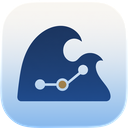
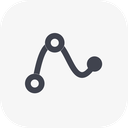
chore: bump version to v0.9.6

diff --git a/site/index.html b/site/index.html
@@ -360,7 +360,7 @@
     <header class="hero">
       <div class="wrap">
         <img class="app-icon" src="/icon.png" alt="GitWave app icon" width="104" height="104" />
-        <div class="badge">v0.9.5 · 2026-09-27</div>
+        <div class="badge">v0.9.6 · 2026-09-27</div>
         <h1>GitWave</h1>
         <p class="tagline">A local-first Git client with AI collaboration.</p>
         <p class="sub">
@@ -517,7 +517,7 @@
               side-by-side image diffs (old vs new, common image formats — for unstaged changes the
               new side reflects the live worktree), and file-level context. Selected-file / side
               previews with explicit truncation, virtualised text rows, paired split replacements
-              and syntax highlighting keep large diffs fast.
+              and syntax highlighting with on-demand language resources keep large diffs fast.
             </p>
           </div>
           <div class="card">
@@ -631,7 +631,7 @@
           </div>
         </div>
         <p class="dl-note">
-          Latest release: v0.9.5 ·
+          Latest release: v0.9.6 ·
           <a
             href="https://github.com/Yangshifu1024/GitWave/releases/latest"
             target="_blank"

diff --git a/index.html b/index.html
@@ -2,7 +2,7 @@
 <html lang="en">
   <head>
     <meta charset="UTF-8" />
-    <link rel="icon" type="image/svg+xml" href="/vite.svg" />
+    <link rel="icon" type="image/png" href="/app-icon.png" />
     <meta name="viewport" content="width=device-width, initial-scale=1.0" />
     <title>GitWave</title>
   </head>

diff --git a/docs/pm/core/03-roadmap.md b/docs/pm/core/03-roadmap.md
@@ -1,7 +1,7 @@
 # GitWave · 版本路线
 
 > 本文档定义 GitWave 的版本发布计划与迭代节奏。项目采用敏捷快速迭代，无固定阶段。
-> 当前发布版本：**v0.9.5**（三平台）。§2.1–§2.3 是已交付的规划基线，不是待办。
+> 当前发布版本：**v0.9.6**（三平台）。§2.1–§2.3 是已交付的规划基线，不是待办。
 
 ## 1. 版本总览
 
@@ -10,7 +10,7 @@
 | **v0.1** | 14 个核心场景跑通 | macOS 起步 | **已交付** |
 | **v0.2** | v0.1 全量 + Windows + AI 进阶 | macOS + Win | **已交付** |
 | **v0.3** | v0.2 全量 + Linux + remote 协作 + AI 智能 | macOS + Win + Linux | **已交付**（PR/MR / Issue 未做，见 §2.3） |
-| **v0.4–v0.9** | 官网、自动更新、i18n、代理、凭证弹窗、图片 diff 等持续迭代 | 三平台 | **进行中**（当前 v0.9.5） |
+| **v0.4–v0.9** | 官网、自动更新、i18n、代理、凭证弹窗、图片 diff 等持续迭代 | 三平台 | **进行中**（当前 v0.9.6） |
 
 工程拆解见 `docs/tech/planning/roadmap-v0.2.md`、`docs/tech/planning/roadmap-v0.3.md`（均为已执行计划，不是开工文档）。
 
@@ -80,7 +80,7 @@ v0.3 之后不再按「大版本一次性范围」排期，按功能提案合入
 | v0.6.x | UI 中英双语 + AI 回复语言 |
 | v0.7.x | macOS 原生菜单、提交/分支右键菜单、远程分支 DWIM 检出、系统代理、应用内 HTTPS 凭证弹窗、外部工具 / 编辑器打开、图片 diff |
 | v0.8.x | 标题栏与操作栏合并、stash 按仓库隔离、未暂存图片 diff 读工作区、macOS dmg 公证票据、检出后侧栏揭示分支、自动刷新全部仓库 |
-| v0.9.x | 一次添加多个本地仓库、仓库标签栏滚轮横滚、stash 面板重做、提交列表滚动性能、时间格式统一、孤立 index 冲突可见与 pull 前置检查 |
+| v0.9.x | 一次添加多个本地仓库、仓库标签栏滚轮横滚、stash 面板重做、提交列表滚动性能、时间格式统一、孤立 index 冲突可见与 pull 前置检查、可靠性优化、新版图标、按需语法资源与更小前端分包 |
 
 **相对规划仍未做、且仍在产品意图里的项**（不是本路线图的承诺日期）：
 
@@ -100,4 +100,4 @@ v0.3 之后不再按「大版本一次性范围」排期，按功能提案合入
 - 重大方向调整时：重新审视平台优先级、新功能纳入/排除
 - 版本整体回看：重设下一版本
 
-（v0.9.5 已发布，本节内容已并入 `02-scope.md` §3.5 版本对照表。）
+各补丁版本的具体交付见 `02-scope.md` §3.5 版本对照表。

diff --git a/README.md b/README.md
@@ -2,13 +2,13 @@
 
 > Local-first Git client with AI collaboration. Website: **[gitwave.work](https://gitwave.work)**
 
-**Status:** v0.9.5 · [Release notes](https://github.com/Yangshifu1024/GitWave/releases) · [Product scope](./docs/pm/core/01-features.md) · [Engineering decisions](./docs/tech/README.md)
+**Status:** v0.9.6 · [Release notes](https://github.com/Yangshifu1024/GitWave/releases) · [Product scope](./docs/pm/core/01-features.md) · [Engineering decisions](./docs/tech/README.md)
 
 ### What's new in v0.9.x
 
+- **v0.9.6** — refreshed application icons across the desktop app and website; smaller frontend bundles with on-demand syntax resources; more reliable dialog resets and repository switching, with warning-free frontend and Rust quality gates
 - **v0.9.5** — offline AI requests now enforce loopback-only connectivity, bypass system proxies, disable redirects, and screen complete blob versions for private-key material before any diff fragment is sent; commit drafts and conflict buffers survive navigation; clean working copies support message-only amend; the diff viewer ships selected-file previews with truncation, virtualised text rows, paired split replacements and syntax highlighting; history pages with bounded search and visible scan scope; hooks resolve against linked-worktree common directories and core.hooksPath
 - **v0.9.4** — unresolved index conflicts now appear in the Changes count and open directly in the conflict editor, even when no merge is in progress; Pull stops before stash or fetch and explains what to resolve
-- **v0.9.3** — update checks work again: the updater manifest now points at plain release download links (v0.9.2 published API URLs, which answer 403 without a User-Agent header); the commit list stays smooth while scrolling large repositories; every panel formats its timestamps through one shared formatter; the icon family moved to lucide 1.x
 
 Older releases are in the [release notes](https://github.com/Yangshifu1024/GitWave/releases).
 

diff --git a/.agents/skills/gitwave-release/SKILL.md b/.agents/skills/gitwave-release/SKILL.md
@@ -50,6 +50,8 @@ Verify with `git status --porcelain`: expect exactly those 4 files. Anything els
   - Hero badge: `<div class="badge">vX.Y.Z · <today></div>` — current version + current date (`YYYY-MM-DD`).
   - Download area: `Latest release: vX.Y.Z`.
   - Feature cards: fold small features into an existing card (e.g. the "Diff viewer" or "Batteries included" cards) rather than adding a new one and breaking the grid rhythm.
+- **PM docs** — sync the current-version references in `docs/pm/core/README.md`, `01-features.md`, `02-scope.md`, and `03-roadmap.md`; add the release's representative changes to the scope table. Preserve historical version rows and release notes.
+- **Branding assets** — when application icons changed since the previous tag, copy `src-tauri/icons/icon.png` to `site/icon.png`, `32x32.png` to `site/favicon-32.png`, and `128x128.png` to `public/app-icon.png`. Keep the frontend favicon in `index.html` pointed at the app icon. Verify these are byte-identical copies; do not regenerate artwork during release sync.
 - Residue check: `grep -rn "<old-version>" README.md site/ package.json src-tauri/tauri.conf.json src-tauri/Cargo.toml` — GitWave's own version should only appear at the new value (matches inside unrelated dependencies don't count).
 
 ## 5. Commit

diff --git a/docs/tasks/fix-release-warnings/plan.md b/docs/tasks/fix-release-warnings/plan.md
@@ -28,3 +28,4 @@ Run scope-change, stale-response, dialog reopen, split-direction and syntax-high
 - `pnpm build` equivalent (`tsc --noEmit` + `vite build`): passes without warnings; largest JavaScript chunk 406,354 bytes, below Vite's unchanged 500 kB threshold.
 - Production Chrome smoke: actual emitted syntax module, grammar JSON and WASM under the Tauri CSP; 15 languages × 2 themes pass, no CSP violations. Full desktop UI requires the Tauri host (`metadata` is unavailable in plain Chrome), so this does not claim native three-platform UI validation.
 - Code-reviewer review: [review.md](./review.md), no unresolved blocking findings. Sidebar refresh continuity, CSP, initial commit locate and package initialization order were corrected during review.
+- Final v0.9.6 verification also passed after `cargo clean` in the repository's default `src-tauri/target` directory: plain `make check` is now usable again without a temporary `CARGO_TARGET_DIR`. `pnpm build` also passed without warnings after version and icon synchronization.

diff --git a/docs/pm/core/README.md b/docs/pm/core/README.md
@@ -7,8 +7,8 @@
 | 编号 | 文档 | 职责 |
 |---|---|---|
 | 01 | [功能列表](./01-features.md) | 产品应具备的功能与明确不做的事 |
-| 02 | [范围与优先级](./02-scope.md) | Must / Should / Could 三档优先级、各版本范围，以及截至 v0.9.5 的交付对照 |
-| 03 | [版本路线](./03-roadmap.md) | v0.1–v0.3 已交付基线 + v0.4–v0.9 持续迭代（当前 v0.9.5） |
+| 02 | [范围与优先级](./02-scope.md) | Must / Should / Could 三档优先级、各版本范围，以及截至 v0.9.6 的交付对照 |
+| 03 | [版本路线](./03-roadmap.md) | v0.1–v0.3 已交付基线 + v0.4–v0.9 持续迭代（当前 v0.9.6） |
 | 04 | [v0.1 Sprint Plan](./04-sprint-v0.1.md) | v0.1 范围的拆解，历史记录，不是待办 |
 
 ## 阅读路径

diff --git a/docs/tasks/fix-release-warnings/review.md b/docs/tasks/fix-release-warnings/review.md
@@ -45,3 +45,5 @@
 ### Final gate evidence
 
 Implementation owner completed `make check` using a fresh Rust target directory: zero warnings, 320 frontend tests and 385 Rust tests passed (2 existing ignored Rust tests). Production build passed with no warnings; no warning threshold was raised. Plain Chrome validated emitted highlighter resources with the application CSP; full desktop UI still requires a Tauri host and remains outside that browser smoke's scope.
+
+Final v0.9.6 follow-up: the default repository target directory was cleaned and rebuilt successfully with plain `make check`; no environment override is needed for future checks. Release metadata and copied branding assets received a separate read-only review with no findings.
